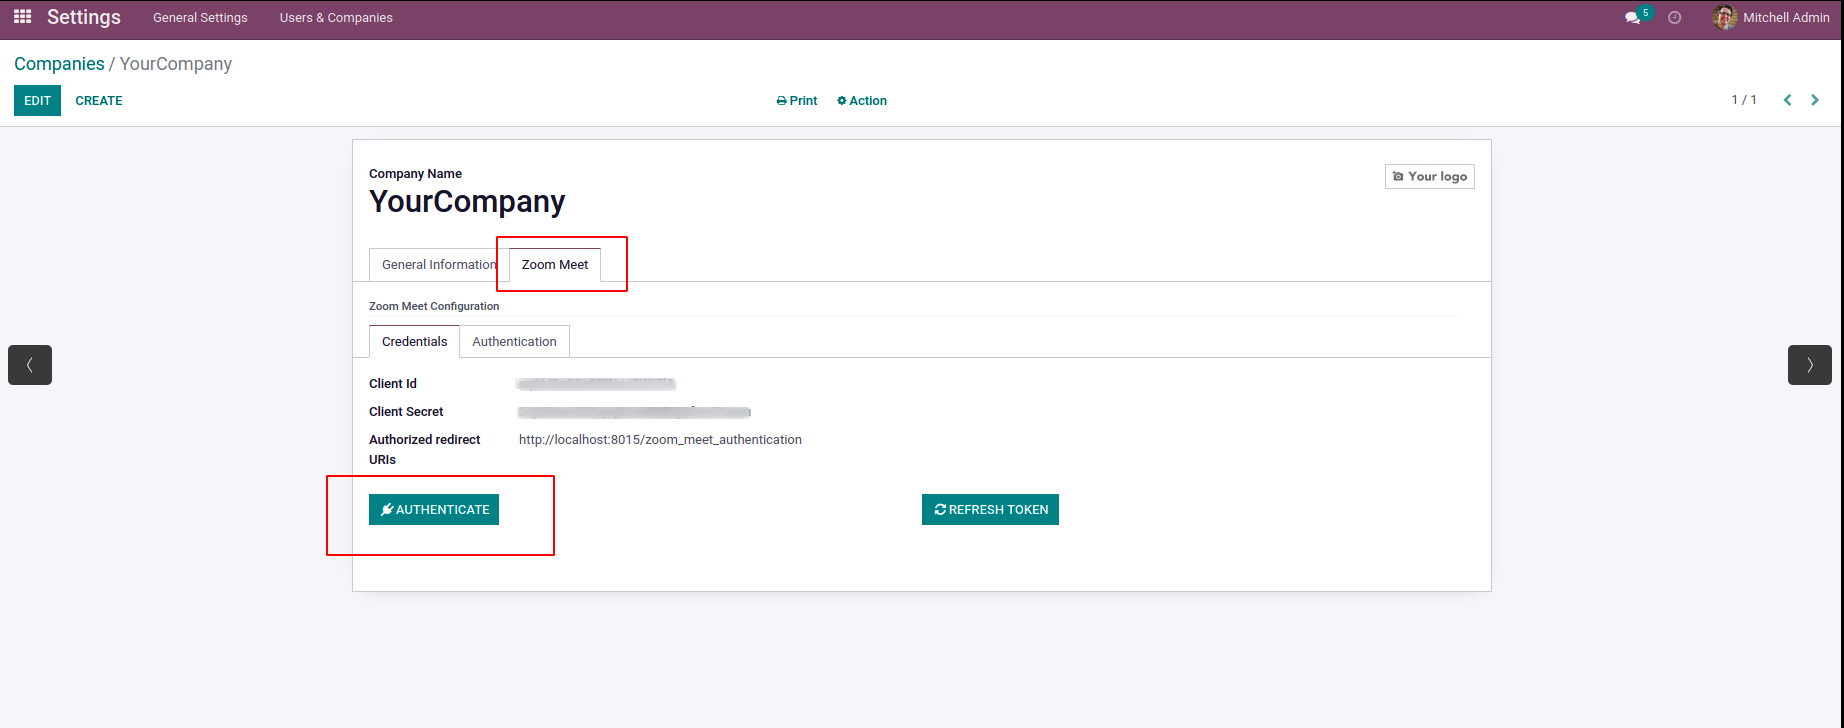
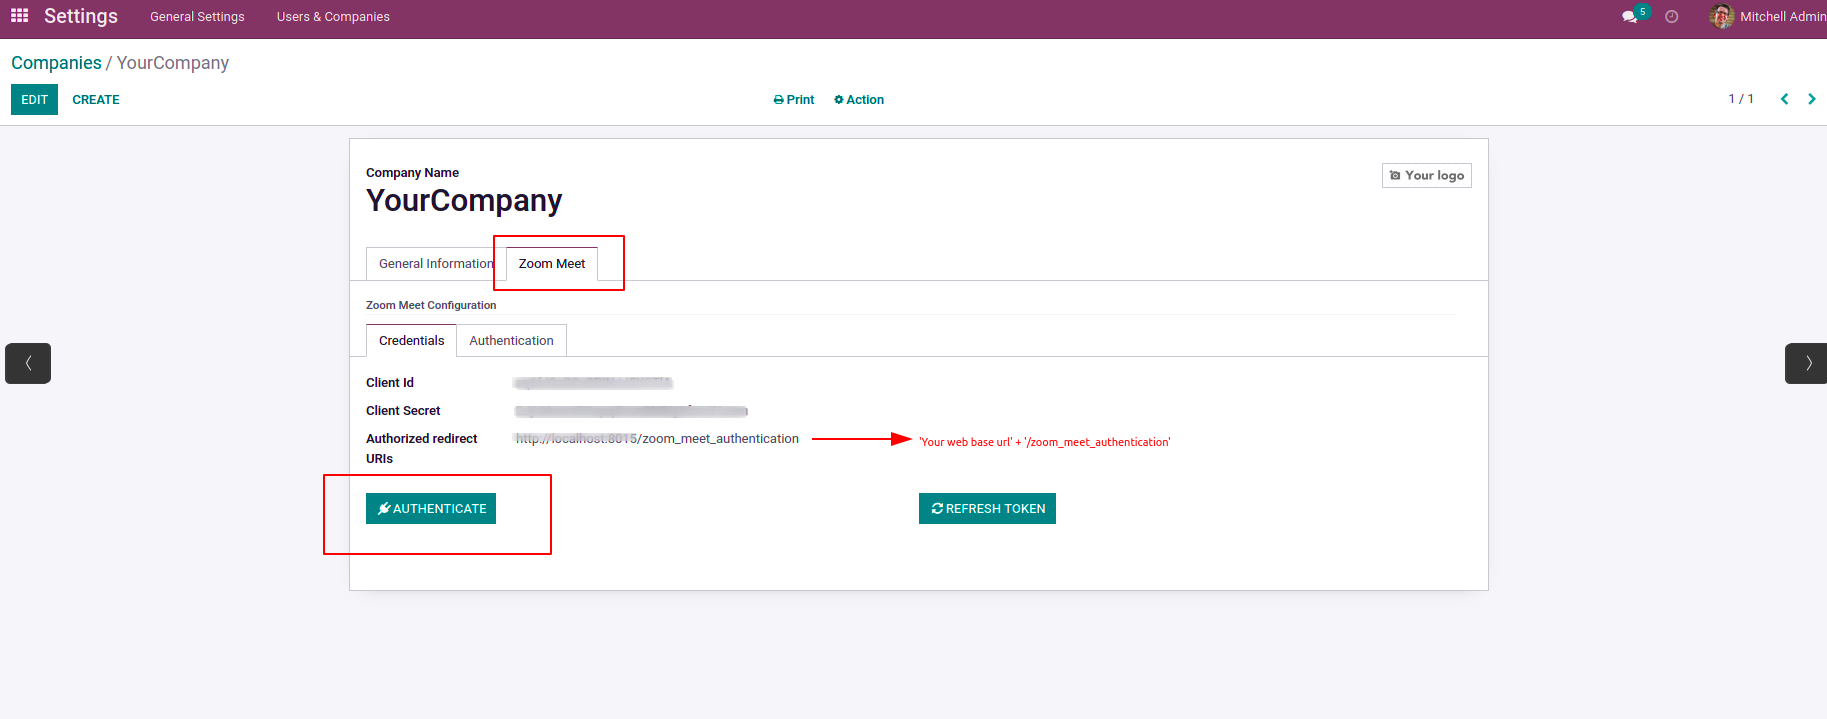
Aug 17 : [UPDT] Index Updated  'odoo_zoom_meet_integration'

diff --git a/odoo_zoom_meet_integration/static/description/index.html b/odoo_zoom_meet_integration/static/description/index.html
@@ -219,8 +219,7 @@
         </div>
         <div class="col-lg-12 my-2"
              style="padding-top:20px; padding-bottom:30px;">
-            <p
-                    style="font-family: 'Roboto', sans-serif !important; font-weight: 400 !important; color: #282F33 !important; font-size: 1.3rem !important;">
+            <p style="font-family: 'Roboto', sans-serif !important; font-weight: 400 !important; color: #282F33 !important; font-size: 1.3rem !important;">
                 1. Sign in with your Zoom Account. To create Zoom OAuth App ,
                 go to Zoom marketplace
                 <br/>
@@ -228,11 +227,24 @@
                 <br/>
                 &nbsp;&nbsp;&nbsp;&nbsp;create your OAuth app and get your
                 client id and client secret and set the redirect url.
+                <br/><br/>
+                The format for the redirect URI: 'Your web base URL +
+                /zoom_meet_authentication'.
             </p>
             <img src="assets/screenshots/zoom1.png"
                  class="img-responsive img-thumbnail border" width="100%"
                  height="auto"/>
             <img src="assets/screenshots/zoom10.png"
+                 class="img-responsive img-thumbnail border" width="100%"
+                 height="auto"/>
+            <p style="font-family: 'Roboto', sans-serif !important; font-weight: 400 !important; color: #282F33 !important; font-size: 1.3rem !important;">
+                To obtain your web base URL, you can refer to the Odoo system
+                parameters settings, as shown in the screenshot below.
+                Afterward, append the controller URL
+                ('/zoom_meet_authentication') to the base URL and assign it to
+                the redirect URI field in both the Zoom app account settings and
+                Odoo company settings.</p>
+            <img src="assets/screenshots/base_uri.png"
                  class="img-responsive img-thumbnail border" width="100%"
                  height="auto"/>
         </div>
